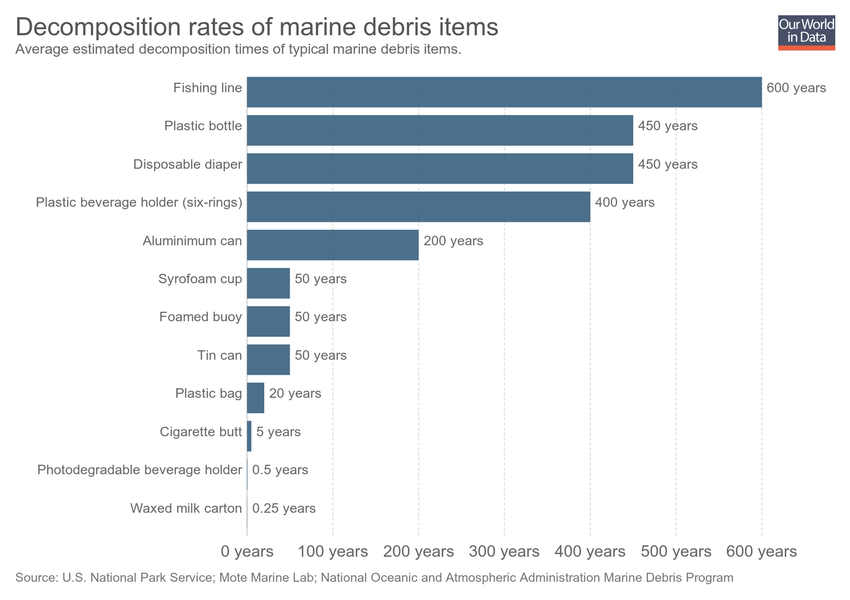
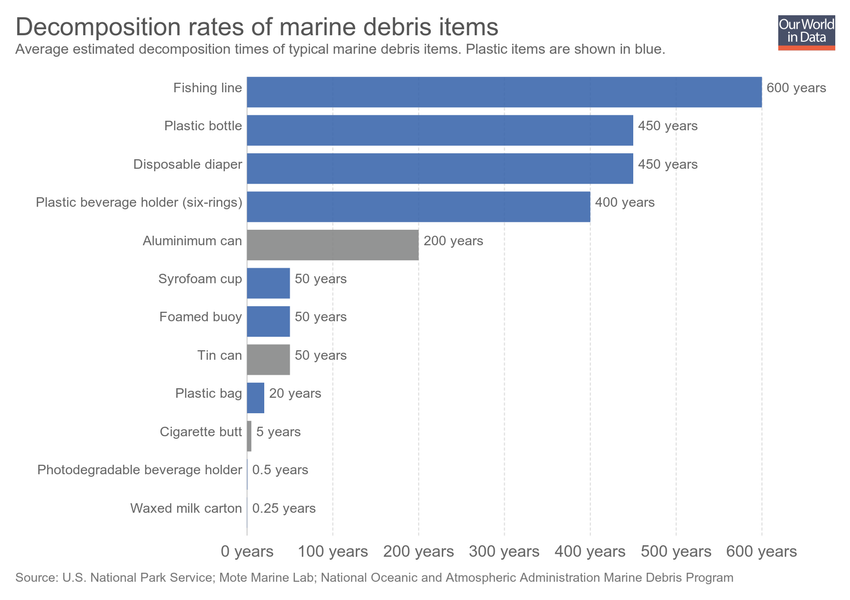
Updating chart decomposition-rates-marine-debris

Changed region(s): [[0.2753, 0.12, 0.9176, 0.75], [0.5506, 0.06, 0.7953, 0.09]]

diff --git a/grapher/decomposition-rates-marine-debris.html b/grapher/decomposition-rates-marine-debris.html
@@ -1,4 +1,4 @@
-<!doctype html><html><head><meta name="viewport" content="width=device-width, initial-scale=1" /><title>Decomposition rates of marine debris items - Our World in Data</title><meta name="description" content="Average estimated decomposition times of typical marine debris items." /><link rel="canonical" href="https://ourworldindata.org/grapher/decomposition-rates-marine-debris" /><meta property="fb:app_id" content="1149943818390250" /><meta property="og:url" content="https://ourworldindata.org/grapher/decomposition-rates-marine-debris" /><meta property="og:title" content="Decomposition rates of marine debris items" /><meta property="og:description" content="Average estimated decomposition times of typical marine debris items." /><meta property="og:image" content="https://ourworldindata.org/grapher/exports/decomposition-rates-marine-debris.png?v=1" /><meta property="og:image:width" content="850" /><meta property="og:image:height" content="600" /><meta property="og:site_name" content="Our World in Data" /><meta name="twitter:card" content="summary_large_image" /><meta name="twitter:site" content="@OurWorldInData" /><meta name="twitter:creator" content="@OurWorldInData" /><meta name="twitter:title" content="Decomposition rates of marine debris items" /><meta name="twitter:description" content="Average estimated decomposition times of typical marine debris items." /><meta name="twitter:image" content="https://ourworldindata.org/grapher/exports/decomposition-rates-marine-debris.png?v=1" /><style>
+<!doctype html><html><head><meta name="viewport" content="width=device-width, initial-scale=1" /><title>Decomposition rates of marine debris items - Our World in Data</title><meta name="description" content="Average estimated decomposition times of typical marine debris items. Plastic items are shown in blue." /><link rel="canonical" href="https://ourworldindata.org/grapher/decomposition-rates-marine-debris" /><meta property="fb:app_id" content="1149943818390250" /><meta property="og:url" content="https://ourworldindata.org/grapher/decomposition-rates-marine-debris" /><meta property="og:title" content="Decomposition rates of marine debris items" /><meta property="og:description" content="Average estimated decomposition times of typical marine debris items. Plastic items are shown in blue." /><meta property="og:image" content="https://ourworldindata.org/grapher/exports/decomposition-rates-marine-debris.png?v=2" /><meta property="og:image:width" content="850" /><meta property="og:image:height" content="600" /><meta property="og:site_name" content="Our World in Data" /><meta name="twitter:card" content="summary_large_image" /><meta name="twitter:site" content="@OurWorldInData" /><meta name="twitter:creator" content="@OurWorldInData" /><meta name="twitter:title" content="Decomposition rates of marine debris items" /><meta name="twitter:description" content="Average estimated decomposition times of typical marine debris items. Plastic items are shown in blue." /><meta name="twitter:image" content="https://ourworldindata.org/grapher/exports/decomposition-rates-marine-debris.png?v=2" /><style>
         html, body {
             height: 100%;
             margin: 0;
@@ -20,8 +20,8 @@
         }
     </style><noscript><style>
                     figure { display: none !important; }
-                </style></noscript><link rel="stylesheet" href="https://ourworldindata.org/grapher/assets/commons.bundle.0cade97703a5a10acaac.css" /><link rel="preload" href="/grapher/data/variables/97734.json?v=1" as="fetch" crossorigin /></head><body class="singleChart"><figure data-grapher-src="/grapher/decomposition-rates-marine-debris"></figure><noscript id="fallback"><img src="/grapher/exports/decomposition-rates-marine-debris.svg" /><p>Interactive visualization requires JavaScript</p></noscript><script src="https://cdn.polyfill.io/v2/polyfill.min.js?features=es6,fetch"></script><script src="https://ourworldindata.org/grapher/assets/commons.bundle.0cade97703a5a10acaac.js"></script><script src="https://ourworldindata.org/grapher/assets/charts.bundle.0cade97703a5a10acaac.js"></script><script>
-        var jsonConfig = {"map":{"projection":"World","colorSchemeLabels":[],"colorSchemeValues":[],"customNumericColors":[],"customCategoryColors":{},"customCategoryLabels":{},"customHiddenCategories":{}},"tab":"chart","slug":"decomposition-rates-marine-debris","type":"DiscreteBar","title":"Decomposition rates of marine debris items","xAxis":{"scaleType":"linear"},"yAxis":{"min":0,"scaleType":"linear"},"version":1,"subtitle":"Average estimated decomposition times of typical marine debris items.","hasMapTab":false,"stackMode":"absolute","dimensions":[{"display":{"shortUnit":"years"},"property":"y","variableId":97734}],"sourceDesc":"U.S. National Park Service; Mote Marine Lab; National Oceanic and Atmospheric Administration Marine Debris Program","hasChartTab":true,"isPublished":true,"selectedData":[{"index":0,"entityId":37821},{"index":0,"entityId":37825},{"index":0,"entityId":37818},{"index":0,"entityId":37819},{"index":0,"entityId":37816},{"index":0,"entityId":37814},{"index":0,"entityId":37822},{"index":0,"entityId":37817},{"index":0,"entityId":37815},{"index":0,"entityId":37820},{"index":0,"entityId":37823},{"index":0,"entityId":37824}],"addCountryMode":"disabled","hideTitleAnnotation":true,"id":2921};
+                </style></noscript><link rel="stylesheet" href="https://ourworldindata.org/grapher/assets/commons.bundle.0cade97703a5a10acaac.css" /><link rel="preload" href="/grapher/data/variables/97734.json?v=2" as="fetch" crossorigin /></head><body class="singleChart"><figure data-grapher-src="/grapher/decomposition-rates-marine-debris"></figure><noscript id="fallback"><img src="/grapher/exports/decomposition-rates-marine-debris.svg" /><p>Interactive visualization requires JavaScript</p></noscript><script src="https://cdn.polyfill.io/v2/polyfill.min.js?features=es6,fetch"></script><script src="https://ourworldindata.org/grapher/assets/commons.bundle.0cade97703a5a10acaac.js"></script><script src="https://ourworldindata.org/grapher/assets/charts.bundle.0cade97703a5a10acaac.js"></script><script>
+        var jsonConfig = {"id":2921,"map":{"projection":"World","colorSchemeLabels":[],"colorSchemeValues":[],"customNumericColors":[],"customCategoryColors":{},"customCategoryLabels":{},"customHiddenCategories":{}},"tab":"chart","slug":"decomposition-rates-marine-debris","type":"DiscreteBar","title":"Decomposition rates of marine debris items","xAxis":{"scaleType":"linear"},"yAxis":{"min":0,"scaleType":"linear"},"version":2,"subtitle":"Average estimated decomposition times of typical marine debris items. Plastic items are shown in blue.","hasMapTab":false,"stackMode":"absolute","dimensions":[{"display":{"shortUnit":"years"},"property":"y","variableId":97734}],"sourceDesc":"U.S. National Park Service; Mote Marine Lab; National Oceanic and Atmospheric Administration Marine Debris Program","hasChartTab":true,"isPublished":true,"selectedData":[{"color":"#3360a9","index":0,"entityId":37821},{"color":"#818282","index":0,"entityId":37825},{"color":"#3360a9","index":0,"entityId":37818},{"color":"#818282","index":0,"entityId":37819},{"color":"#3360a9","index":0,"entityId":37816},{"color":"#3360a9","index":0,"entityId":37814},{"color":"#3360a9","index":0,"entityId":37822},{"color":"#3360a9","index":0,"entityId":37817},{"color":"#3360a9","index":0,"entityId":37815},{"color":"#3360a9","index":0,"entityId":37820},{"color":"#818282","index":0,"entityId":37823},{"color":"#3360a9","index":0,"entityId":37824}],"addCountryMode":"disabled","hideTitleAnnotation":true};
         var figure = document.getElementsByTagName("figure")[0];
         try {
             window.App = {};
